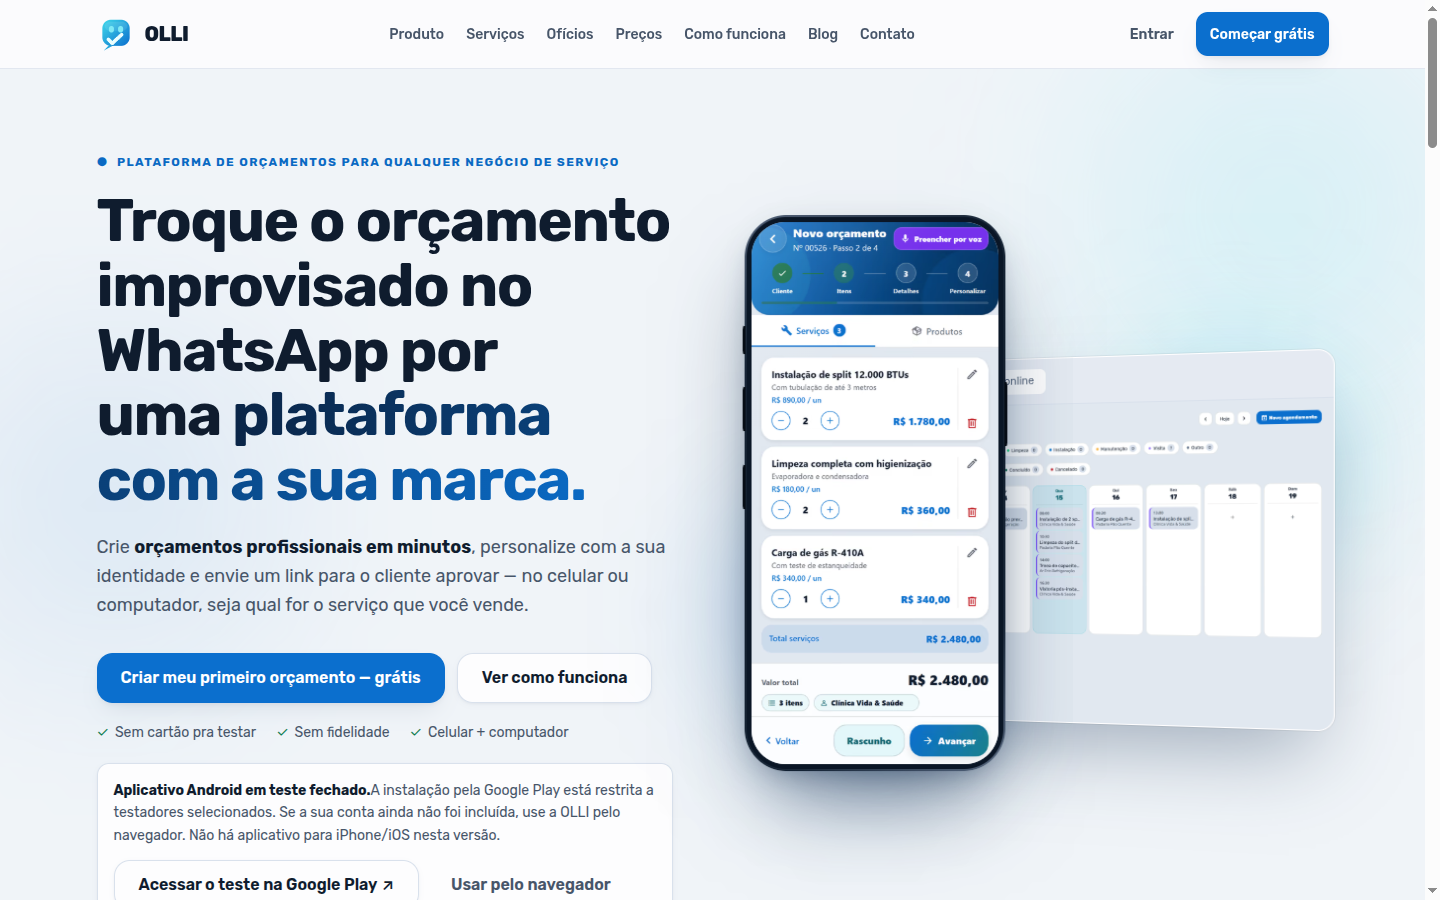
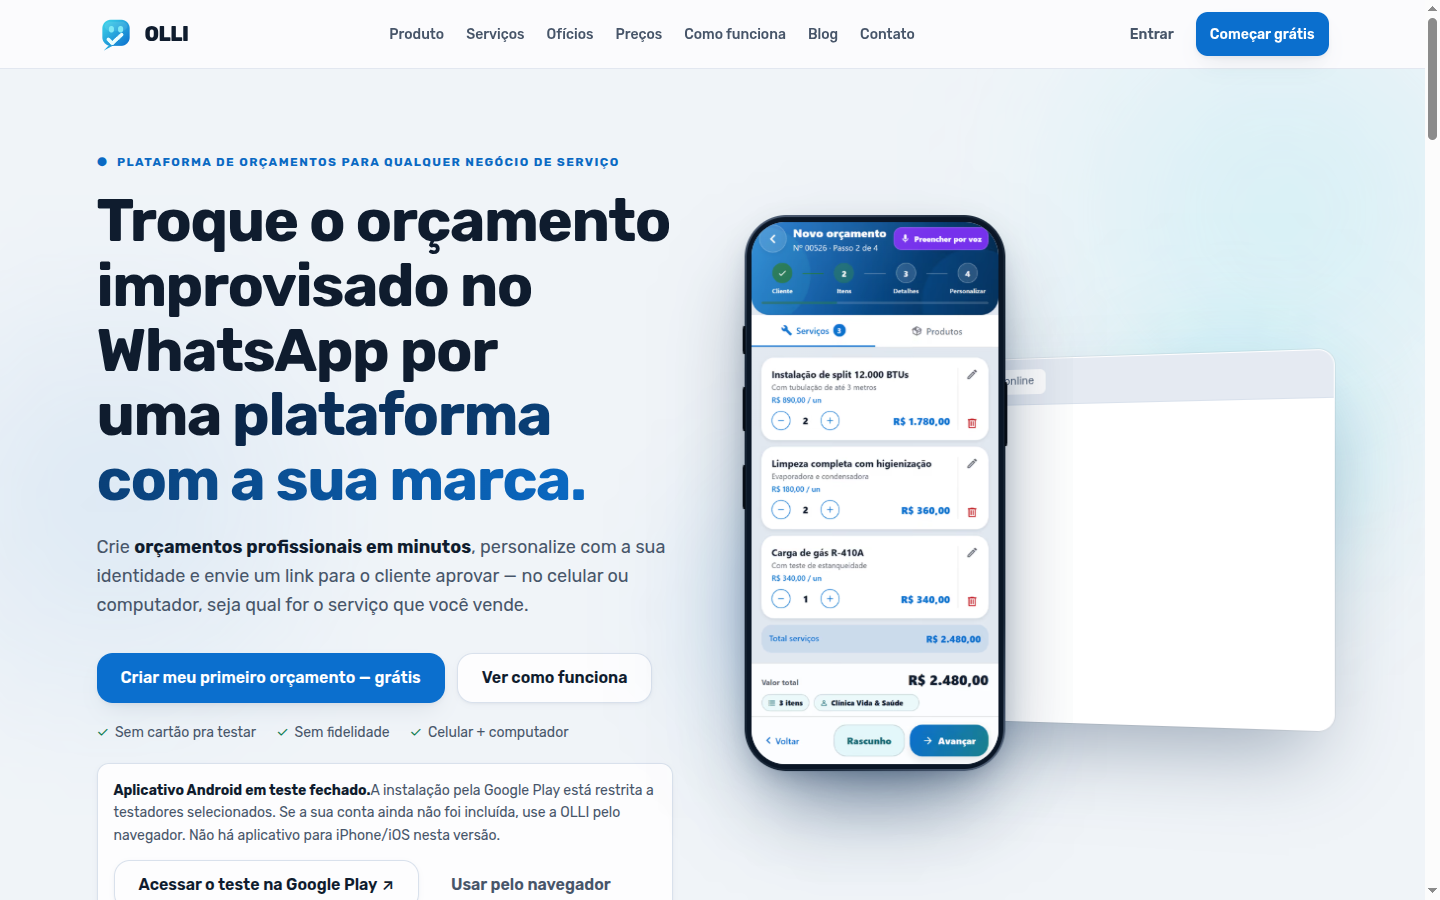
Devolve na home o link da Play e a FAQ inteira.
O preflight lia a URL oficial no arquivo da home e exigia as respostas de offline e de calculadoras na página. A FAQ deixa de ser cortada em três. O teste da landing honesta passa a ler o módulo único dessa redação.

Changed region(s): [[0.6875, 0.4356, 0.9375, 0.8089]]

diff --git a/scripts/teste-landing-honesta.ts b/scripts/teste-landing-honesta.ts
@@ -55,6 +55,8 @@ for (const arquivo of arquivos(RAIZ_WEB, /\.astro$/)) {
 }
 
 const home = ler('../web/src/pages/index.astro');
+const faqHome = ler('../web/src/data/conteudoSite.ts');
+const faqPrecos = ler('../web/src/data/faqPlanos.ts');
 const oficio = ler('../web/src/pages/para/[oficio].astro');
 const planosPagina = ler('../web/src/pages/planos.astro');
 const llms = ler('../web/src/pages/llms.txt.ts');
@@ -66,19 +68,27 @@ const termos = ler('../src/content/legal/termos.ts');
 const privacidade = ler('../src/content/legal/privacidade.ts');
 
 // ─── 2. Offline é do app Android, não da web ───────────────────────────────────
-assert.doesNotMatch(home, /a: "Funciona\. O app guarda tudo/, 'FAQ de offline não pode responder "Funciona." sem dizer que é só no app');
-assert.match(home, /No aplicativo Android \(em teste fechado\)/, 'FAQ de offline deve limitar a promessa ao app Android');
-assert.match(home, /Pelo navegador — no celular ou no computador — a OLLI precisa de internet/, 'FAQ de offline deve dizer que a web precisa de internet');
+// A redação da FAQ saiu da home para um módulo só, compartilhado com /perguntas/.
+// O gate continua na redação E na página: a home tem de renderizar a lista inteira.
+assert.match(home, /faqProduto\(\)/, 'a home mostra a FAQ do produto');
+assert.doesNotMatch(home, /faq\.slice\(/, 'a home não pode esconder offline nem calculadoras');
+assert.match(planosPagina, /faqPlanos\(\)/, 'a página de preços mostra a FAQ de preços');
+assert.doesNotMatch(faqHome, /a: "Funciona\. O app guarda tudo/, 'FAQ de offline não pode responder "Funciona." sem dizer que é só no app');
+assert.match(faqHome, /No aplicativo Android \(em teste fechado\)/, 'FAQ de offline deve limitar a promessa ao app Android');
+assert.match(faqHome, /Pelo navegador — no celular ou no computador — a OLLI precisa de internet/, 'FAQ de offline deve dizer que a web precisa de internet');
 assert.doesNotMatch(home, /benchmark|das 25 ferramentas/i, 'benchmark de concorrente é bastidor, não copy');
+assert.doesNotMatch(faqHome, /benchmark|das 25 ferramentas/i, 'benchmark de concorrente é bastidor, não copy');
 assert.doesNotMatch(oficio, /sem sinal\./, 'página de ofício leva à web, que não funciona sem sinal');
 assert.doesNotMatch(ajuda, /Tudo funciona offline/, 'Central de Ajuda não pode prometer offline sem dizer que é do app');
 assert.match(ajuda, /pelo navegador, o OLLI precisa de conexão/, 'Central de Ajuda deve dizer que a web precisa de internet');
 
 // Nada de "abaixo do DAS do MEI": o Empresa custa mais que o DAS.
 assert.doesNotMatch(home, /DAS do MEI/, 'comparação com o DAS era falsa para o plano Empresa');
+assert.doesNotMatch(faqHome, /DAS do MEI/, 'comparação com o DAS era falsa para o plano Empresa');
 // Contagem de calculadoras derivada, nunca digitada.
 assert.doesNotMatch(home, /21 calculadoras|3 de elétrica/, 'contagem de calculadoras tem de vir de data/oficios.ts');
-assert.match(home, /\$\{TOTAL_CALCULADORAS\} calculadoras de campo divididas por ofício/, 'FAQ de calculadoras deve usar TOTAL_CALCULADORAS');
+assert.doesNotMatch(faqHome, /21 calculadoras|3 de elétrica/, 'contagem de calculadoras tem de vir de data/oficios.ts');
+assert.match(faqHome, /\$\{TOTAL_CALCULADORAS\} calculadoras de campo divididas por ofício/, 'FAQ de calculadoras deve usar TOTAL_CALCULADORAS');
 
 // ─── 3. Zero não vira copy ─────────────────────────────────────────────────────
 assert.match(oficio, /calculos\.length > 0\s*\?\s*`\$\{dor\} Grátis para começar/, 'meta description precisa de ramo sem calculadora');
@@ -94,7 +104,7 @@ assert.doesNotMatch(planosPagina, /a IA tem 3 usos/, 'cota do Grátis vem de IA_
 assert.match(cartoes, /b\.emBreve \?/, 'cartão de plano precisa de terceiro estado para "em breve"');
 
 // ─── 5. Pix: condicionado e pelo mesmo preço ──────────────────────────────────
-for (const [nome, fonte] of [['home', home], ['planos', planosPagina], ['cartões', cartoes], ['llms.txt', llms]] as const) {
+for (const [nome, fonte] of [['faq do produto', faqHome], ['faq de preços', faqPrecos], ['cartões', cartoes], ['llms.txt', llms]] as const) {
   assert.match(fonte, /PIX_PLANO_LIGADO/, `${nome}: copy de Pix tem de ficar atrás do PIX_PLANO_LIGADO`);
 }
 const pix = ler('../web/src/data/pix.ts');
